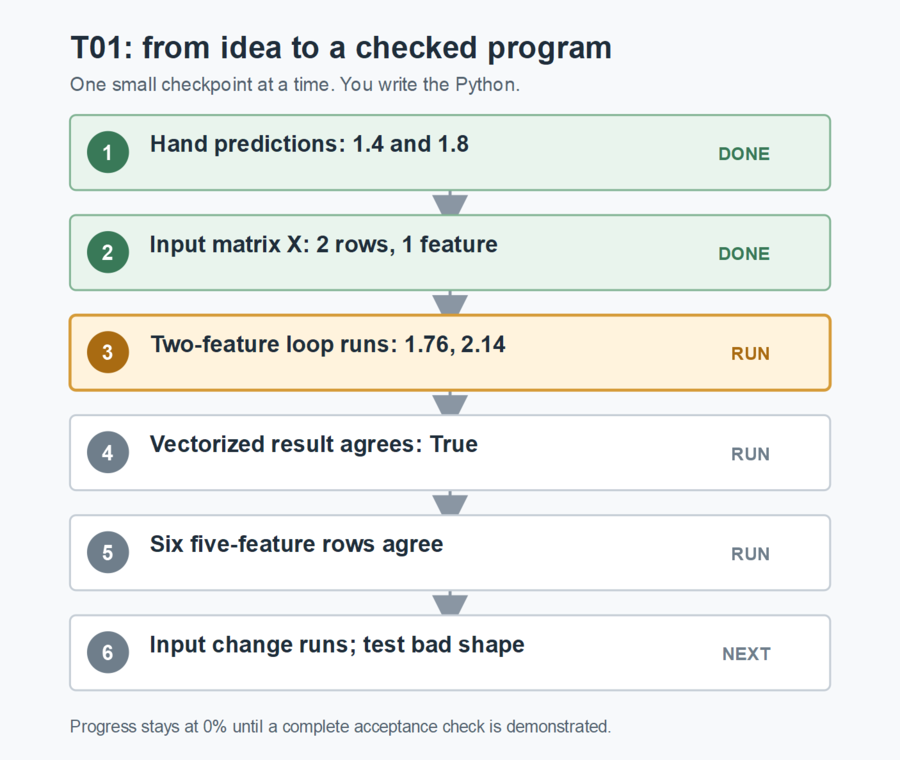
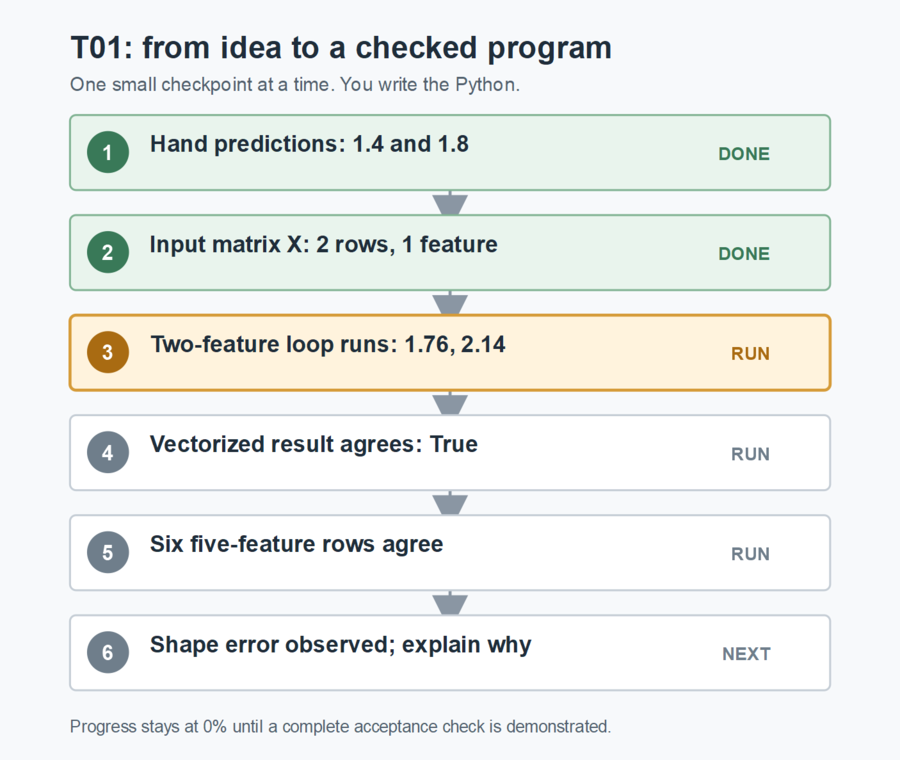
learn(T01): record shape failure and restored fixture

Changed region(s): [[0.1556, 0.8171, 0.5911, 0.8776]]

diff --git a/Projects/AI Capital Cycle Quantamental Research Engine/src/01_vectorized_prediction.py b/Projects/AI Capital Cycle Quantamental Research Engine/src/01_vectorized_prediction.py
@@ -2,7 +2,7 @@ import numpy as np
 
 x = np.array([
     [0.55, 0.72, 0.28, 0.25, 0.18],
-    [0.50, 0.68, 0.22, 0.20, 0.16],
+    [0.40, 0.68, 0.22, 0.20, 0.16],
     [0.65, 0.75, 0.35, 0.32, 0.21],
     [0.30, 0.62, 0.12, 0.08, 0.25],
     [0.25, 0.58, 0.15, 0.14, 0.12],

diff --git a/LEARNING_MANUAL.md b/LEARNING_MANUAL.md
@@ -9,12 +9,12 @@ This is the one document to read and work from. It grows as you build the projec
 | Course study | Machine Learning Specialization C1W1 and C1W2 completed, learner-reported; C1W3 not confirmed |
 | Project | P00, first-principles valuation-stretch foundation |
 | Active task | ML-G01-T01: loop and vectorized prediction, now with two features |
-| Correct so far | One-feature hand predictions and shapes; two-feature agreement; full six-row five-feature agreement, including a changed-input run |
+| Correct so far | One-feature hand predictions and shapes; full six-row agreement; changed-input run; incompatible-shape error observed and restored |
 | Still to explain | What numerical agreement proves, why feature and weight counts must match, and why this is not yet a financial conclusion |
-| Code | Learner-written calculations ran on six five-feature rows and one changed input; `np.allclose` printed `True` both times |
+| Code | Original six-row script runs again with five weights; four-weight failure was tested and repaired |
 | Evidence-backed progress | Task 0%, P00 0%, overall 0%; execution observed, required explanations and transfer still open |
 
-![T01 learning flow, showing the changed-input run and next shape-error experiment](Visuals/current_lesson_flow.png)
+![T01 learning flow, showing the observed shape error and pending explanation](Visuals/current_lesson_flow.png)
 
 The picture is a rendered PNG, not a Mermaid code block. The table above gives the same state if an image viewer is unavailable.
 
@@ -112,7 +112,7 @@ These are building blocks, not a finished solution. You decide the variable name
 | 3 | Write a Python loop for the two rows. | Run it and compare with the hand values | General nested loop observed on two-feature data; explanation pending |
 | 4 | Write the vectorized NumPy form. | Show that both versions agree | Observed on two-feature data; explain `allclose` |
 | 5 | Add a second feature, then the five-feature fixture. | Explain new shapes and compare both versions | Full and changed-input runs observed; independent explanation pending |
-| 6 | Change an input and intentionally create one bad shape. | Explain the changed output and the error | Later |
+| 6 | Change an input and intentionally create one bad shape. | Explain the changed output and the error | Runs observed; learner explanation pending |
 
 The first complete shape-and-hand check earns the first T01 progress credit. Correct arithmetic and `X` alone are saved as partial evidence, not full credit. The mentor will update this page after each meaningful checkpoint.
 
@@ -149,7 +149,9 @@ The weights are in the same column order: `[1.2, 0.8, 1.0, 0.9, -0.3]`, with bia
 
 The frozen baseline printed `[2.687 2.376 2.955 1.973 2.004 2.032]`. After you changed only NexaCloud revenue growth from `0.40` to `0.50`, both methods printed `[2.687 2.496 2.955 1.973 2.004 2.032]` and `True`. Only NexaCloud moved, by `0.120`. The mentor supplied `(0.50 - 0.40) * 1.2 = 0.120`; explain this in your own words before claiming the check as independent.
 
-Next restore `0.40` in the saved fixture. Temporarily remove one of the five weights while leaving five feature columns, predict where the script will fail, run and read the traceback, then restore the correct five-weight array. This is a controlled failure experiment, not a permanent model change.
+You then tried four weights against five feature columns. The loop printed six numbers because its inner loop ran only `len(w)` times and skipped column five. `np.dot` raised `ValueError` because its inner dimensions were `5` and `4`. Your saved script now has the fifth weight and frozen NexaCloud `0.40` restored; both methods again produce the original six values and `True`.
+
+Next explain in your own words why the loop continued but `np.dot` stopped. Also state what one prediction represents in this toy model and why two matching calculations do not prove a financially accurate model.
 
 ## How this manual is maintained
 

diff --git a/00_CURRENT_CONTEXT.md b/00_CURRENT_CONTEXT.md
@@ -14,7 +14,7 @@ This is the compact mentor resumption note for `D:\ML-project`. The learner work
 
 - Project: AI Capital Cycle Quantamental Research Engine.
 - Public repository: [Shreyash3007/ai-capital-cycle-quantamental-research](https://github.com/Shreyash3007/ai-capital-cycle-quantamental-research).
-- Publication state: the full six-row five-feature baseline is on public `main`; the changed-input run awaits the next reviewed push.
+- Publication state: the changed-input run is on public `main`; the shape-failure and restored-baseline checkpoint awaits the next reviewed push.
 - Mentor Mode: active; follow [MENTOR_MODE.md](MENTOR_MODE.md).
 - Phase: P00, C1W2 first-principles valuation engine.
 - Goal: [ML-G01 - C1W2 Valuation Stretch Foundation](Goals/ML-G01%20-%20C1W2%20Valuation%20Stretch%20Foundation/GOAL.md).
@@ -24,7 +24,7 @@ This is the compact mentor resumption note for `D:\ML-project`. The learner work
 - Progress: task 0%, phase 0%, overall 0% because execution is observed but no full explained acceptance check is closed; canonical ledger: [PROGRESS.md](PROGRESS.md).
 - Assistance debt: none.
 - Course coverage: Machine Learning Specialization C1W1 and C1W2 completed, learner-reported. C1W3 has not been confirmed. P00 uses C1W1 prediction, cost, and gradient descent as well as C1W2 methods. Later methods may be introduced early with a first-principles explanation, a bounded task, and a learner understanding check; this does not mark a course week or project capability complete.
-- Next action: the learner changed only NexaCloud revenue growth from `0.40` to `0.50`; the saved script produced `[2.687 2.496 2.955 1.973 2.004 2.032]` from both paths and `True` from `np.allclose`. The mentor supplied the `0.120` sensitivity arithmetic, so ask for the learner's own explanation. Then restore `0.40`, temporarily use four weights with five feature columns, predict and inspect the error, and restore all five weights.
+- Next action: the learner supplied a four-weight run against five feature columns. The loop printed six incomplete predictions, then `np.dot` raised `ValueError` for shapes `(6,5)` and `(4,)`. The saved file already has NexaCloud `0.40` and all five weights restored; the mentor reran it successfully. Ask the learner why the loop continued while `np.dot` stopped, what one prediction represents, and why agreement does not prove financial accuracy.
 
 ## Current research target
 
@@ -76,4 +76,4 @@ The cross-phase [software engineering path](ENGINEERING_LEARNING_PATH.md) now in
 
 ## Evidence state
 
-The learner's general nested-loop code has executed on the full six-row, five-feature table and a changed input. The required independent explanations and shape-failure experiment remain open. The current run is implementation evidence, not a completed research capability. After each task, record observed checks in `PROGRESS.md`, then refresh this note last.
+The learner's general nested-loop code has executed on the full table, a changed input, and an intentional shape failure; the saved script was restored and rerun. The required independent explanations remain open. These runs are implementation evidence, not a completed research capability. After each task, record observed checks in `PROGRESS.md`, then refresh this note last.

diff --git a/PROGRESS.md b/PROGRESS.md
@@ -24,7 +24,7 @@ Phase P00        [--------------------]   0%
 Overall project  [--------------------]   0%
 ```
 
-The learner's general loop and vectorized prediction agree on the full six-row, five-feature table and after changing NexaCloud revenue growth from `0.40` to `0.50`. Only NexaCloud's prediction moved, from `2.376` to `2.496`. The mentor supplied the `0.120` sensitivity arithmetic; independent explanation and the shape-failure experiment remain open, so no complete T01 check has been credited yet.
+The learner's general loop and vectorized prediction agree on the full six-row, five-feature table and after changing NexaCloud revenue growth from `0.40` to `0.50`. With four weights, the loop silently omitted a feature while `np.dot` raised a shape error. The learner restored the frozen data and five weights; the mentor reran the script successfully. Independent explanations remain open, so no complete T01 check has been credited yet.
 
 The [software engineering path](ENGINEERING_LEARNING_PATH.md) is planned across these phases, from Python file structure through SQL, APIs, frontend work, and system design. It earns no separate completion credit from documentation; each phase will require observed engineering evidence at its own gate.
 
@@ -79,7 +79,7 @@ Each T01 check is worth 20% of the task. Evidence must include the learner's exp
 | Learner-written loop on starter data | open: starter result shown in dialogue; explanation and durable run record pending | [current two-feature code](Journey/2026-09-28-ML-G01-T01.md) |
 | Vectorized prediction agrees on starter data | open: starter agreement shown in dialogue; comparison meaning pending | [current two-feature code](Journey/2026-09-28-ML-G01-T01.md) |
 | Two- and five-feature agreement plus changed input | open: original and changed-input agreement observed; independent explanation pending | [verified runs](Journey/2026-09-28-ML-G01-T01.md) |
-| Shape failure and finance meaning explained | open | none |
+| Shape failure and finance meaning explained | open: failure observed and repaired; learner diagnosis and finance meaning pending | [shape-failure run](Journey/2026-09-28-ML-G01-T01.md) |
 
 If T01 reaches 100%, P00 gains 15 percentage points and the overall project gains 1.5 percentage points (`10%` phase weight x `15%` task weight). Other tasks have their own weights and acceptance checks.
 
@@ -96,4 +96,4 @@ If T01 reaches 100%, P00 gains 15 percentage points and the overall project gain
 
 ## Next milestone
 
-Restore NexaCloud revenue growth to the frozen `0.40`. Then temporarily use four weights for the five-feature table, predict which part of the script will fail, run, read the error, and restore all five weights. Explain why `np.allclose` agreement is not proof of financial accuracy.
+Explain why the four-weight loop printed six incomplete predictions while `np.dot` rejected the `(6, 5)` by `(4,)` multiplication. Then explain what one output represents and why `np.allclose` agreement is not proof of financial accuracy. The saved script is restored and runs correctly.

diff --git a/Journey/2026-09-28-ML-G01-T01.md b/Journey/2026-09-28-ML-G01-T01.md
@@ -45,3 +45,10 @@ Have the learner explain in one sentence what `True` establishes and what it can
 - Mentor reran it: both methods returned `[2.687 2.496 2.955 1.973 2.004 2.032]`; `np.allclose` returned `True`.
 - Relative to the frozen baseline, only NexaCloud changed, from `2.376` to `2.496`. The mentor supplied the sensitivity arithmetic `(0.50 - 0.40) * 1.2 = 0.120`; independent learner explanation remains open.
 - Next: restore the frozen `0.40`, deliberately use four weights with five feature columns, inspect the resulting error, then restore all five weights.
+
+## Shape-failure run
+
+- The learner supplied the intentional four-weight run: `x.shape == (6, 5)`, `w.shape == (4,)`. The loop printed six incomplete predictions, then `np.dot(x, w)` raised `ValueError: shapes (6,5) and (4,) not aligned: 5 (dim 1) != 4 (dim 0)`.
+- The loop used `range(len(w))`, so it visited only four feature columns and did not notice that each row had five. The vectorized dot product checked the inner dimensions and failed.
+- Mentor inspected the saved script afterward: the fifth weight and NexaCloud's frozen `0.40` had already been restored. Mentor reran it successfully: both paths returned the original six predictions and `True` from `np.allclose`.
+- The learner's own diagnosis of why the loop continued and the dot product failed is still open. No broken script was committed.

diff --git a/JOURNEY.md b/JOURNEY.md
@@ -22,6 +22,7 @@ This is the chronological record of decisions, attempts, evidence, and changes i
 | 2026-09-29 | [T01 one-row five-feature run](Journey/2026-09-28-ML-G01-T01.md): both methods returned `2.687` for AstraCompute; mentor supplied the matching hand arithmetic. | One-row transfer observed; full fixture and explanations remain open. |
 | 2026-09-29 | [T01 full six-row run](Journey/2026-09-28-ML-G01-T01.md): loop and vectorized outputs matched on all five-feature company rows. | Full fixture executed; changed-input and explanation checks remain open. |
 | 2026-09-29 | [T01 changed-input run](Journey/2026-09-28-ML-G01-T01.md): NexaCloud revenue growth increased by `0.10`; only its prediction rose by `0.120`, with both implementations agreeing. | Sensitivity run observed; independent explanation and shape-failure check remain open. |
+| 2026-09-29 | [T01 shape-failure run](Journey/2026-09-28-ML-G01-T01.md): four weights against five feature columns made `np.dot` raise a dimension error; learner restored the script and mentor reran it. | Failure and recovery observed; learner diagnosis remains open. |
 
 The setup documents were prepared with mentor assistance. They are project planning, not learner-authored model code or proof of mastery.
 
